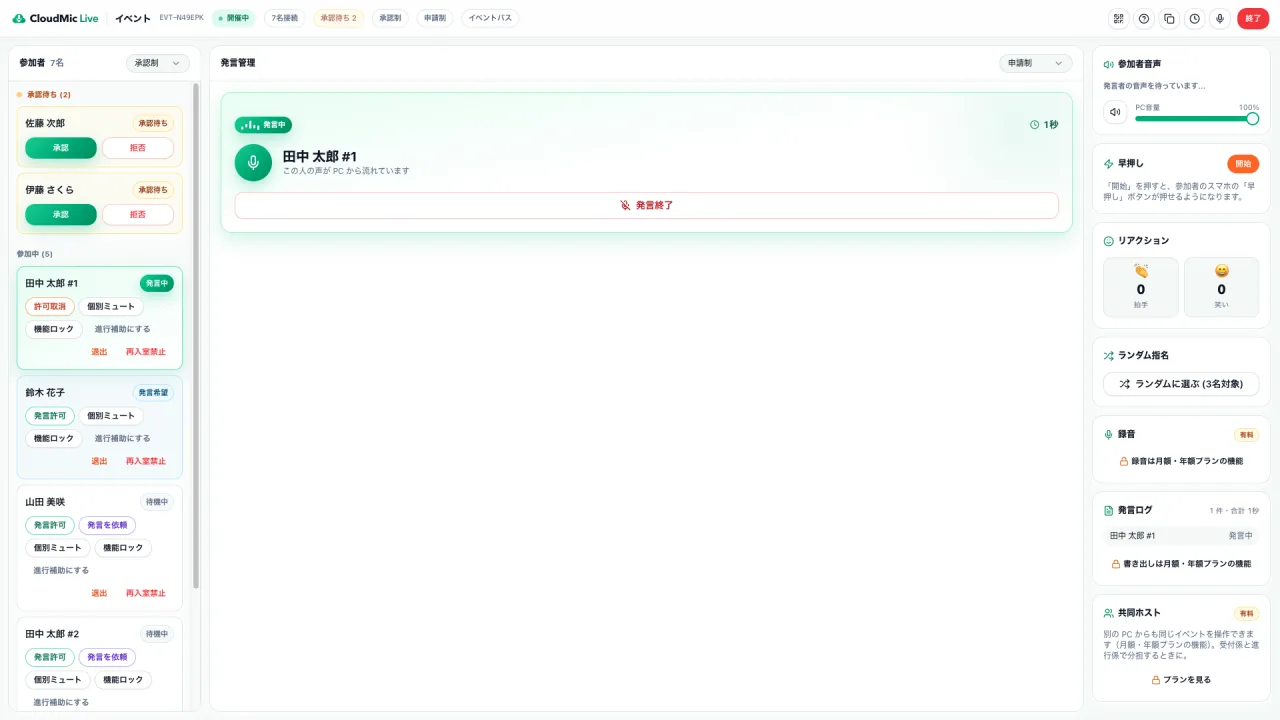
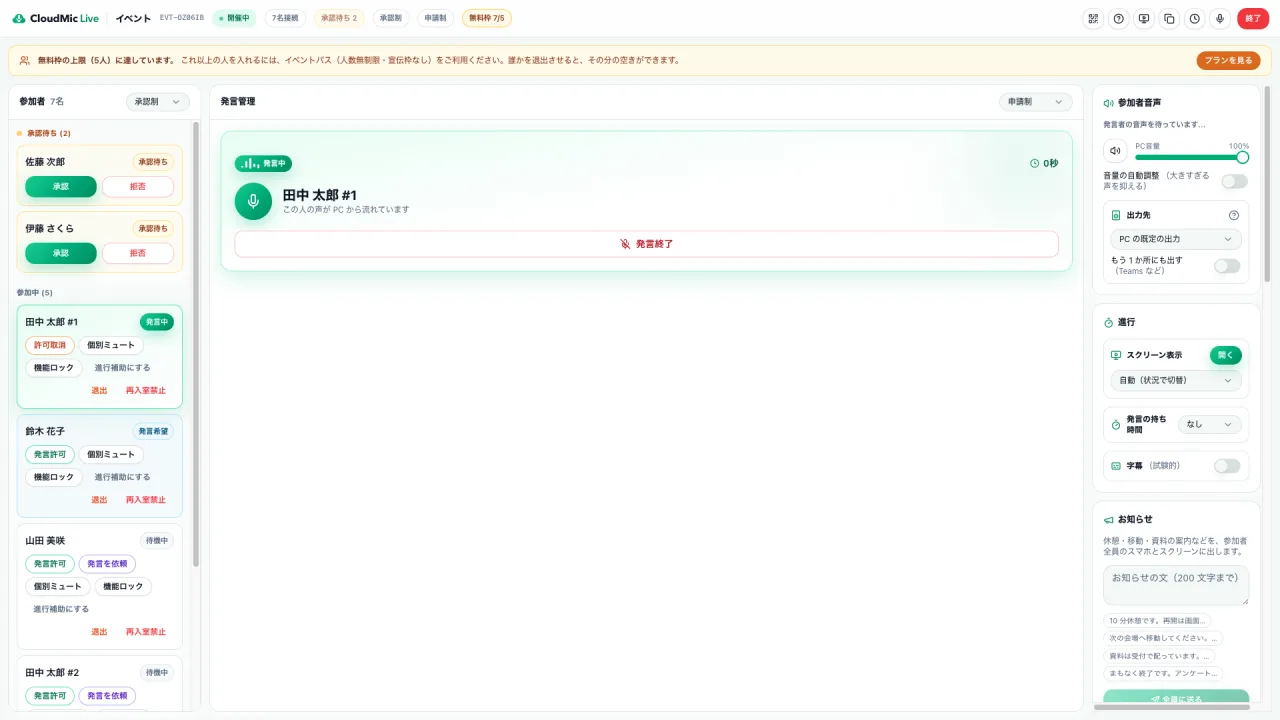
CloudMic Live: 0.9.1 の新機能（投票・質問箱・スクリーン表示・お知らせ・出席確認）をページと画像に反映

diff --git a/cloudmic/index.html b/cloudmic/index.html
@@ -138,6 +138,24 @@
           <h3>同じ Wi‑Fi の中だけで完結</h3>
           <p>インターネットは不要。音声はその場で再生され、開発者のサーバーや外部には一切送られません。参加の合言葉と受付ロックで、入ってよい人だけに。</p>
         </div>
+        <div class="cm-card reveal">
+          <span class="num">07</span>
+          <div class="ic"><svg viewBox="0 0 24 24" fill="none" stroke="currentColor" stroke-width="1.7" stroke-linecap="round" aria-hidden="true"><path d="M4 20h16M7 16V9M12 16V4M17 16v-6"/></svg></div>
+          <h3>投票と質問箱</h3>
+          <p>質問と選択肢を出して、スマホで答えてもらう。声を出しにくい人は文字で質問。いいねが多い順に並びます。</p>
+        </div>
+        <div class="cm-card reveal">
+          <span class="num">08</span>
+          <div class="ic"><svg viewBox="0 0 24 24" fill="none" stroke="currentColor" stroke-width="1.7" stroke-linecap="round" stroke-linejoin="round" aria-hidden="true"><rect x="3" y="4" width="18" height="12" rx="2"/><path d="M8 20h8M12 16v4M8 10l2.5 2L16 8"/></svg></div>
+          <h3>スクリーン表示と発言タイマー</h3>
+          <p>プロジェクター用の画面に、発言者・残り時間・投票の結果・早押しの順位・参加用 QR を大きく映せます。</p>
+        </div>
+        <div class="cm-card reveal">
+          <span class="num">09</span>
+          <div class="ic"><svg viewBox="0 0 24 24" fill="none" stroke="currentColor" stroke-width="1.7" stroke-linecap="round" stroke-linejoin="round" aria-hidden="true"><path d="M4 11v2a1 1 0 0 0 1 1h2l5 4V6L7 10H5a1 1 0 0 0-1 1z"/><path d="M15 9a4 4 0 0 1 0 6M18 6.5a8 8 0 0 1 0 11"/></svg></div>
+          <h3>お知らせ・出席確認・音のケア</h3>
+          <p>休憩などのお知らせを全員のスマホへ。出席確認は「出席」を押すだけ。声の大きさが見え、ハウリングの可能性も知らせます。</p>
+        </div>
       </div>
     </div>
   </section>
@@ -197,6 +215,14 @@
           <div class="frame"><div class="phone whole white"><div class="screen"><img src="/assets/img/cloudmic/07_participant_speaking.webp" alt="参加者の発言中画面。マイクのアイコンと「発言を終了する」ボタン" width="720" height="1558" loading="lazy"></div></div></div>
           <figcaption><b>Guest</b>発言中。自分の声が PC から流れている</figcaption>
         </figure>
+        <figure class="cm-shot reveal">
+          <div class="frame"><img src="/assets/img/cloudmic/10_screen_poll.webp" alt="スクリーン表示。投票「ここまでの内容は？」の結果が棒グラフで大きく映っている" width="1280" height="720" loading="lazy"></div>
+          <figcaption><b>Screen</b>プロジェクターに、投票の結果や発言者を大きく</figcaption>
+        </figure>
+        <figure class="cm-shot reveal">
+          <div class="frame"><div class="phone whole white"><div class="screen"><img src="/assets/img/cloudmic/11_participant_poll.webp" alt="参加者の画面。上にホストからのお知らせ、下に投票の選択肢と「文字で質問する」" width="720" height="1558" loading="lazy"></div></div></div>
+          <figcaption><b>Guest</b>お知らせを受け取り、投票や質問もスマホから</figcaption>
+        </figure>
       </div>
     </div>
   </section>
@@ -240,7 +266,7 @@
           <ul class="ticks">
             <li>参加者の人数制限なし・案内なし</li>
             <li>頻繁に使う方向け</li>
-            <li>録音・発言ログの書き出し</li>
+            <li>録音・発言ログと出欠の書き出し・レポートの自動作成</li>
           </ul>
         </div>
       </div>

diff --git a/en/cloudmic/index.html b/en/cloudmic/index.html
@@ -138,6 +138,24 @@
           <h3>Entirely on the local Wi‑Fi</h3>
           <p>No internet needed. Audio is played live and never sent to the developer or any outside server. An event passcode and join lock keep the room to the people you invited.</p>
         </div>
+        <div class="cm-card reveal">
+          <span class="num">07</span>
+          <div class="ic"><svg viewBox="0 0 24 24" fill="none" stroke="currentColor" stroke-width="1.7" stroke-linecap="round" aria-hidden="true"><path d="M4 20h16M7 16V9M12 16V4M17 16v-6"/></svg></div>
+          <h3>Polls and a question box</h3>
+          <p>Ask a question with options and let people answer on their phones. Shy participants can ask in writing; the most liked questions rise to the top.</p>
+        </div>
+        <div class="cm-card reveal">
+          <span class="num">08</span>
+          <div class="ic"><svg viewBox="0 0 24 24" fill="none" stroke="currentColor" stroke-width="1.7" stroke-linecap="round" stroke-linejoin="round" aria-hidden="true"><rect x="3" y="4" width="18" height="12" rx="2"/><path d="M8 20h8M12 16v4M8 10l2.5 2L16 8"/></svg></div>
+          <h3>Projector screen and speaking timer</h3>
+          <p>A separate screen view shows the current speaker, time remaining, poll results, buzzer ranking and the join QR code, large enough for the room.</p>
+        </div>
+        <div class="cm-card reveal">
+          <span class="num">09</span>
+          <div class="ic"><svg viewBox="0 0 24 24" fill="none" stroke="currentColor" stroke-width="1.7" stroke-linecap="round" stroke-linejoin="round" aria-hidden="true"><path d="M4 11v2a1 1 0 0 0 1 1h2l5 4V6L7 10H5a1 1 0 0 0-1 1z"/><path d="M15 9a4 4 0 0 1 0 6M18 6.5a8 8 0 0 1 0 11"/></svg></div>
+          <h3>Announcements, roll call and audio care</h3>
+          <p>Send a break notice to every phone. Roll call is one tap. Level meters show each voice, and the app warns about possible feedback.</p>
+        </div>
       </div>
     </div>
   </section>
@@ -197,6 +215,14 @@
           <div class="frame"><div class="phone whole white"><div class="screen"><img src="/assets/img/cloudmic/07_participant_speaking.webp" alt="Participant screen while speaking: a microphone icon and a Stop speaking button" width="720" height="1558" loading="lazy"></div></div></div>
           <figcaption><b>Guest</b>Speaking: their voice plays from the PC</figcaption>
         </figure>
+        <figure class="cm-shot reveal">
+          <div class="frame"><img src="/assets/img/cloudmic/10_screen_poll.webp" alt="Projector screen view showing poll results as large bars" width="1280" height="720" loading="lazy"></div>
+          <figcaption><b>Screen</b>Poll results and the current speaker, large enough for the room</figcaption>
+        </figure>
+        <figure class="cm-shot reveal">
+          <div class="frame"><div class="phone whole white"><div class="screen"><img src="/assets/img/cloudmic/11_participant_poll.webp" alt="Participant screen with a host announcement at the top, poll options and a question box" width="720" height="1558" loading="lazy"></div></div></div>
+          <figcaption><b>Guest</b>Announcements, polls and questions, all on the phone</figcaption>
+        </figure>
       </div>
     </div>
   </section>
@@ -240,7 +266,7 @@
           <ul class="ticks">
             <li>Unlimited participants, no notice</li>
             <li>For frequent hosts</li>
-            <li>Recording and speech-log export</li>
+            <li>Recording, speech-log and attendance export, automatic event reports</li>
           </ul>
         </div>
       </div>
